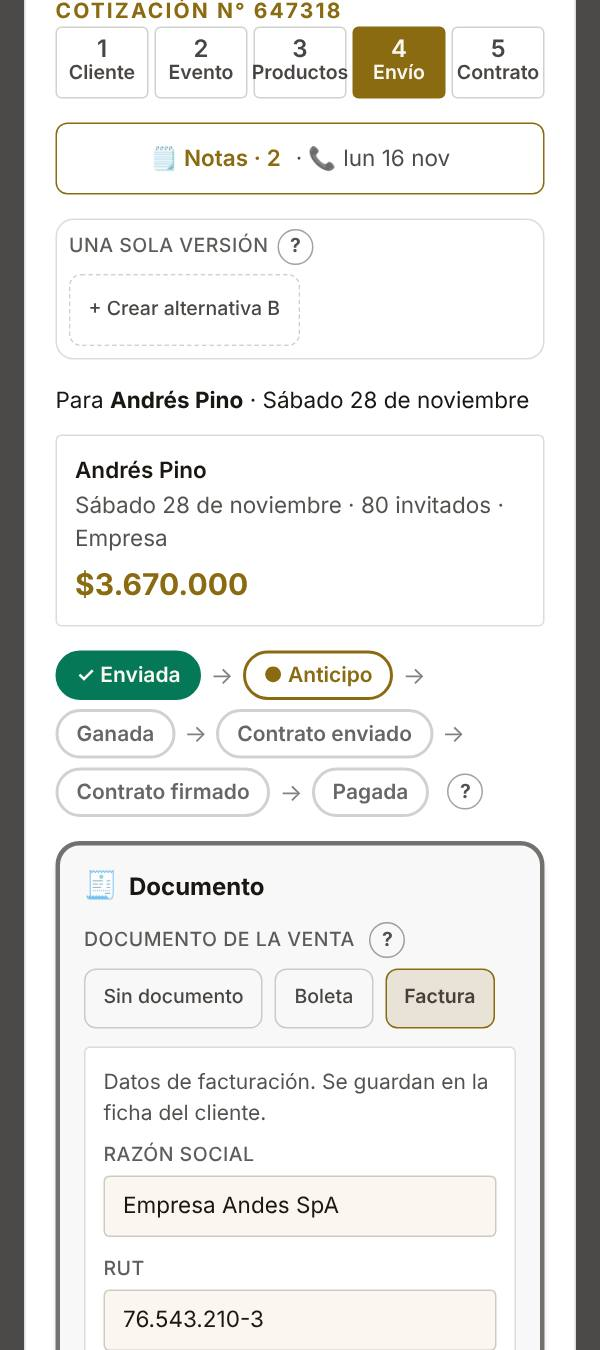
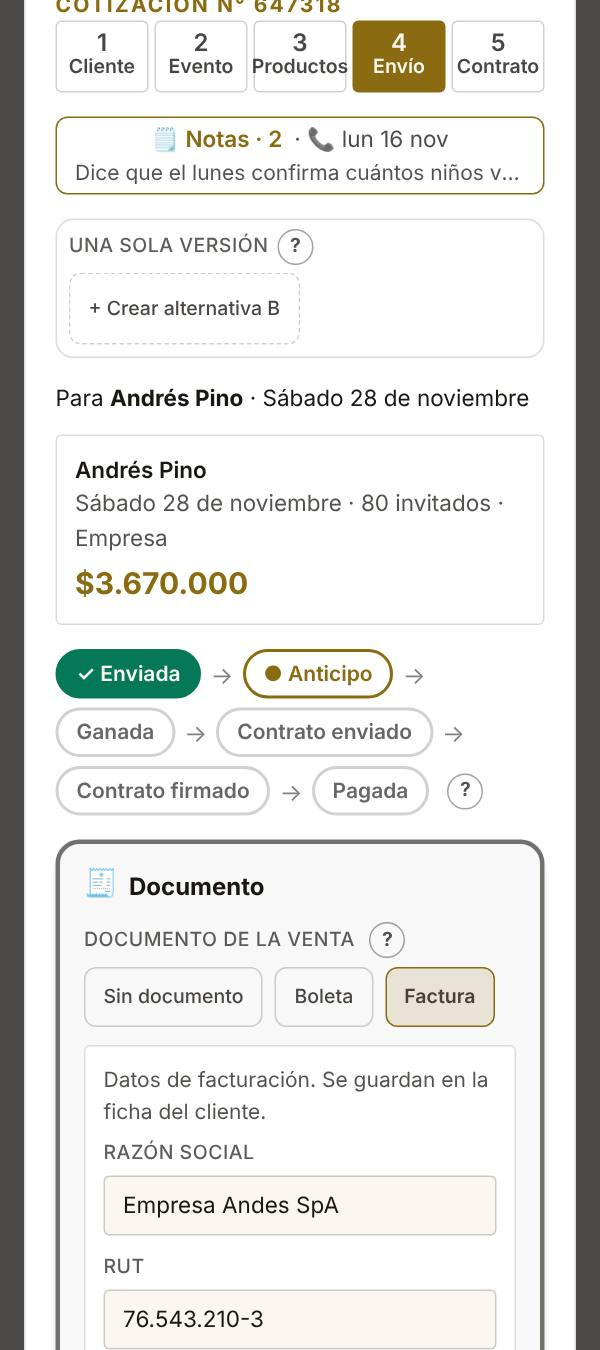
Ayuda: las fotos de la cotización con la última nota en el botón Notas
ven-envio y ger-cobros muestran el botón 🗒 Notas, que ahora trae la
última nota; en el celular va en su renglón, sin el punto de adelante.

Claude-Session: https://claude.ai/code/session_01SbCpLXRLiAYNdagAaPDDb9

diff --git a/panel/src/components/CotizacionDialogo.tsx b/panel/src/components/CotizacionDialogo.tsx
@@ -1920,7 +1920,7 @@ export default function CotizacionDialogo({
           )}
           {ultima && (
             <span className="min-w-0 basis-full truncate text-[14px] font-normal text-hueso/75 lg:basis-auto">
-              · {ultima.nota}
+              <span aria-hidden className="hidden lg:inline">· </span>{ultima.nota}
             </span>
           )}
         </button>
